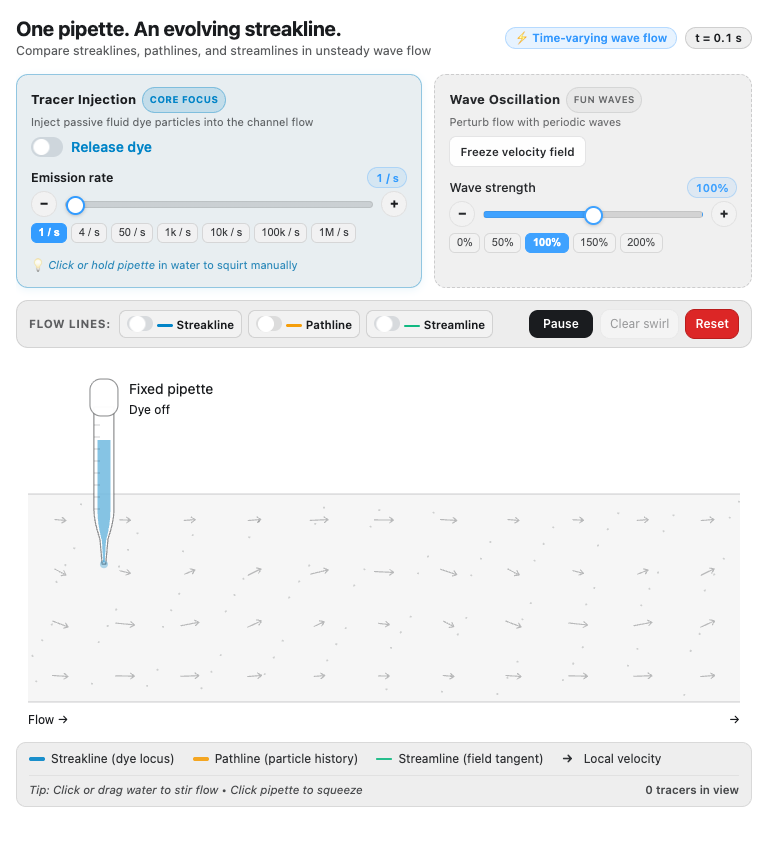
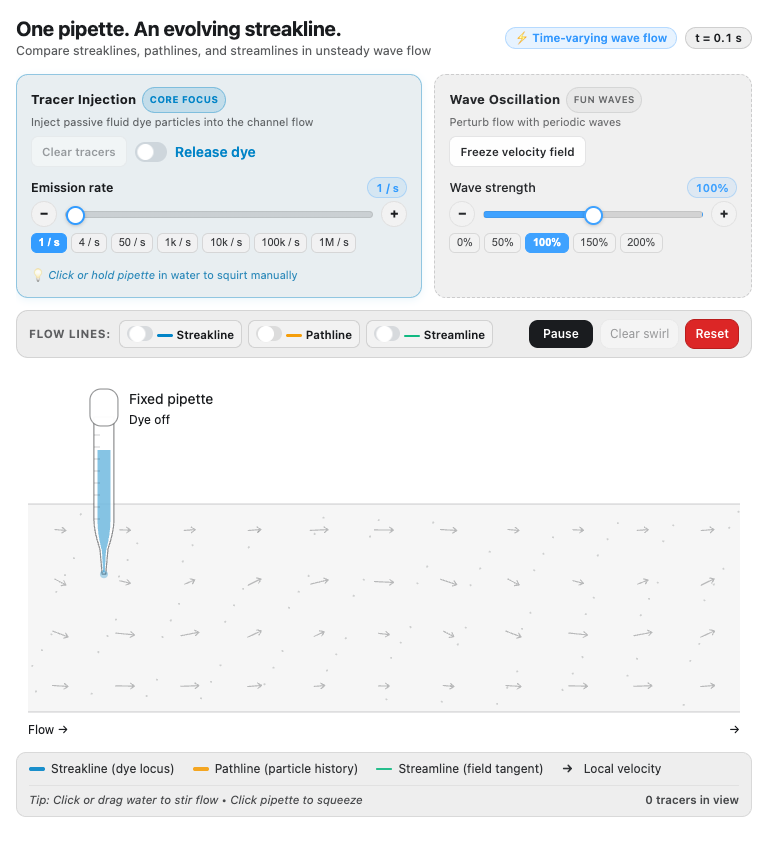
Add Clear tracers button to Tracer Injection card

diff --git a/dist/index.html b/dist/index.html
@@ -1349,10 +1349,13 @@ html&gt;body{padding:0}&lt;/style&gt;
           &lt;/div&gt;
           &lt;span class=&quot;sl-card-desc&quot;&gt;Inject passive fluid dye particles into the channel flow&lt;/span&gt;
         &lt;/div&gt;
-        &lt;label class=&quot;form-check form-switch sl-dye-switch&quot; for=&quot;sl-dye&quot;&gt;
-          &lt;input class=&quot;form-check-input&quot; type=&quot;checkbox&quot; id=&quot;sl-dye&quot;&gt;
-          &lt;span class=&quot;form-check-label sl-dye-label&quot;&gt;Release dye&lt;/span&gt;
-        &lt;/label&gt;
+        &lt;div class=&quot;sl-tracer-actions&quot;&gt;
+          &lt;button type=&quot;button&quot; class=&quot;btn btn-secondary sl-btn-compact&quot; id=&quot;sl-clear-tracers&quot; disabled&gt;Clear tracers&lt;/button&gt;
+          &lt;label class=&quot;form-check form-switch sl-dye-switch&quot; for=&quot;sl-dye&quot;&gt;
+            &lt;input class=&quot;form-check-input&quot; type=&quot;checkbox&quot; id=&quot;sl-dye&quot;&gt;
+            &lt;span class=&quot;form-check-label sl-dye-label&quot;&gt;Release dye&lt;/span&gt;
+          &lt;/label&gt;
+        &lt;/div&gt;
       &lt;/div&gt;
       &lt;label class=&quot;form-label&quot; for=&quot;sl-rate&quot;&gt;
         &lt;div class=&quot;sl-label-row&quot;&gt;
@@ -1678,6 +1681,17 @@ html&gt;body{padding:0}&lt;/style&gt;
     border-radius: 7px;
     white-space: nowrap;
     cursor: pointer;
+  }
+  #streakline-lab .sl-tracer-actions {
+    display: flex;
+    align-items: center;
+    gap: 8px;
+    flex-wrap: wrap;
+  }
+  #streakline-lab #sl-clear-tracers:not(:disabled) {
+    border-color: #0284c7;
+    color: #0284c7;
+    font-weight: 600;
   }
   #streakline-lab .sl-dye-switch {
     margin: 0;
@@ -2149,6 +2163,7 @@ html&gt;body{padding:0}&lt;/style&gt;
   const wave = el(&#x27;sl-wave&#x27;);
   const waveVal = el(&#x27;sl-wave-val&#x27;);
   const clearVortex = el(&#x27;sl-vortex-clear&#x27;);
+  const clearTracers = el(&#x27;sl-clear-tracers&#x27;);
   const vortexLegend = el(&#x27;sl-vortex-legend&#x27;);
   const pipette = el(&#x27;sl-pipette&#x27;);
   let isPipetteHeld = false;
@@ -2402,6 +2417,7 @@ html&gt;body{padding:0}&lt;/style&gt;
     }
     totalTracers = Math.min(1000000, Math.round(totalTracers));
     el(&#x27;sl-count&#x27;).textContent = `${totalTracers.toLocaleString()} tracers in view`;
+    if (clearTracers) clearTracers.disabled = (particles.length === 0);
     if (vortex.active) {
       el(&#x27;sl-vortex&#x27;).style.display = &#x27;&#x27;;
       el(&#x27;sl-vortex&#x27;).setAttribute(&#x27;transform&#x27;, `translate(${n(px(vortex.x))},${n(py(vortex.y))})`);
@@ -2454,6 +2470,7 @@ html&gt;body{padding:0}&lt;/style&gt;
     updateSlider(wave);
     updateSlider(rate);
     clearVortex.disabled = !vortex.active;
+    if (clearTracers) clearTracers.disabled = (particles.length === 0);
     vortexLegend.style.display = vortex.active ? &#x27;inline-flex&#x27; : &#x27;none&#x27;;
   }
   function updateSlider(input) {
@@ -2499,6 +2516,17 @@ html&gt;body{padding:0}&lt;/style&gt;
     save();
     announce(&#x27;Swirl vortex removed.&#x27;);
   });
+  if (clearTracers) {
+    clearTracers.addEventListener(&#x27;click&#x27;, () =&gt; {
+      particles = [];
+      injectAccumulator = 0;
+      run++;
+      syncControls();
+      draw();
+      save();
+      announce(&#x27;Tracers cleared.&#x27;);
+    });
+  }
   let draggingVortex = false;
   function handlePointer(event) {
     if (event.target &amp;&amp; event.target.closest &amp;&amp; event.target.closest(&#x27;#sl-pipette&#x27;)) return false;
@@ -2723,6 +2751,7 @@ html&gt;body{padding:0}&lt;/style&gt;
   layout(); requestAnimationFrame(animate);
 })();
 &lt;/script&gt;
+
 
 
 

diff --git a/outputs/streakline-demo.html b/outputs/streakline-demo.html
@@ -1349,10 +1349,13 @@ html&gt;body{padding:0}&lt;/style&gt;
           &lt;/div&gt;
           &lt;span class=&quot;sl-card-desc&quot;&gt;Inject passive fluid dye particles into the channel flow&lt;/span&gt;
         &lt;/div&gt;
-        &lt;label class=&quot;form-check form-switch sl-dye-switch&quot; for=&quot;sl-dye&quot;&gt;
-          &lt;input class=&quot;form-check-input&quot; type=&quot;checkbox&quot; id=&quot;sl-dye&quot;&gt;
-          &lt;span class=&quot;form-check-label sl-dye-label&quot;&gt;Release dye&lt;/span&gt;
-        &lt;/label&gt;
+        &lt;div class=&quot;sl-tracer-actions&quot;&gt;
+          &lt;button type=&quot;button&quot; class=&quot;btn btn-secondary sl-btn-compact&quot; id=&quot;sl-clear-tracers&quot; disabled&gt;Clear tracers&lt;/button&gt;
+          &lt;label class=&quot;form-check form-switch sl-dye-switch&quot; for=&quot;sl-dye&quot;&gt;
+            &lt;input class=&quot;form-check-input&quot; type=&quot;checkbox&quot; id=&quot;sl-dye&quot;&gt;
+            &lt;span class=&quot;form-check-label sl-dye-label&quot;&gt;Release dye&lt;/span&gt;
+          &lt;/label&gt;
+        &lt;/div&gt;
       &lt;/div&gt;
       &lt;label class=&quot;form-label&quot; for=&quot;sl-rate&quot;&gt;
         &lt;div class=&quot;sl-label-row&quot;&gt;
@@ -1678,6 +1681,17 @@ html&gt;body{padding:0}&lt;/style&gt;
     border-radius: 7px;
     white-space: nowrap;
     cursor: pointer;
+  }
+  #streakline-lab .sl-tracer-actions {
+    display: flex;
+    align-items: center;
+    gap: 8px;
+    flex-wrap: wrap;
+  }
+  #streakline-lab #sl-clear-tracers:not(:disabled) {
+    border-color: #0284c7;
+    color: #0284c7;
+    font-weight: 600;
   }
   #streakline-lab .sl-dye-switch {
     margin: 0;
@@ -2149,6 +2163,7 @@ html&gt;body{padding:0}&lt;/style&gt;
   const wave = el(&#x27;sl-wave&#x27;);
   const waveVal = el(&#x27;sl-wave-val&#x27;);
   const clearVortex = el(&#x27;sl-vortex-clear&#x27;);
+  const clearTracers = el(&#x27;sl-clear-tracers&#x27;);
   const vortexLegend = el(&#x27;sl-vortex-legend&#x27;);
   const pipette = el(&#x27;sl-pipette&#x27;);
   let isPipetteHeld = false;
@@ -2402,6 +2417,7 @@ html&gt;body{padding:0}&lt;/style&gt;
     }
     totalTracers = Math.min(1000000, Math.round(totalTracers));
     el(&#x27;sl-count&#x27;).textContent = `${totalTracers.toLocaleString()} tracers in view`;
+    if (clearTracers) clearTracers.disabled = (particles.length === 0);
     if (vortex.active) {
       el(&#x27;sl-vortex&#x27;).style.display = &#x27;&#x27;;
       el(&#x27;sl-vortex&#x27;).setAttribute(&#x27;transform&#x27;, `translate(${n(px(vortex.x))},${n(py(vortex.y))})`);
@@ -2454,6 +2470,7 @@ html&gt;body{padding:0}&lt;/style&gt;
     updateSlider(wave);
     updateSlider(rate);
     clearVortex.disabled = !vortex.active;
+    if (clearTracers) clearTracers.disabled = (particles.length === 0);
     vortexLegend.style.display = vortex.active ? &#x27;inline-flex&#x27; : &#x27;none&#x27;;
   }
   function updateSlider(input) {
@@ -2499,6 +2516,17 @@ html&gt;body{padding:0}&lt;/style&gt;
     save();
     announce(&#x27;Swirl vortex removed.&#x27;);
   });
+  if (clearTracers) {
+    clearTracers.addEventListener(&#x27;click&#x27;, () =&gt; {
+      particles = [];
+      injectAccumulator = 0;
+      run++;
+      syncControls();
+      draw();
+      save();
+      announce(&#x27;Tracers cleared.&#x27;);
+    });
+  }
   let draggingVortex = false;
   function handlePointer(event) {
     if (event.target &amp;&amp; event.target.closest &amp;&amp; event.target.closest(&#x27;#sl-pipette&#x27;)) return false;
@@ -2723,6 +2751,7 @@ html&gt;body{padding:0}&lt;/style&gt;
   layout(); requestAnimationFrame(animate);
 })();
 &lt;/script&gt;
+
 
 
 

diff --git a/work/streakline-preview.html b/work/streakline-preview.html
@@ -1349,10 +1349,13 @@ html&gt;body{padding:0}&lt;/style&gt;
           &lt;/div&gt;
           &lt;span class=&quot;sl-card-desc&quot;&gt;Inject passive fluid dye particles into the channel flow&lt;/span&gt;
         &lt;/div&gt;
-        &lt;label class=&quot;form-check form-switch sl-dye-switch&quot; for=&quot;sl-dye&quot;&gt;
-          &lt;input class=&quot;form-check-input&quot; type=&quot;checkbox&quot; id=&quot;sl-dye&quot;&gt;
-          &lt;span class=&quot;form-check-label sl-dye-label&quot;&gt;Release dye&lt;/span&gt;
-        &lt;/label&gt;
+        &lt;div class=&quot;sl-tracer-actions&quot;&gt;
+          &lt;button type=&quot;button&quot; class=&quot;btn btn-secondary sl-btn-compact&quot; id=&quot;sl-clear-tracers&quot; disabled&gt;Clear tracers&lt;/button&gt;
+          &lt;label class=&quot;form-check form-switch sl-dye-switch&quot; for=&quot;sl-dye&quot;&gt;
+            &lt;input class=&quot;form-check-input&quot; type=&quot;checkbox&quot; id=&quot;sl-dye&quot;&gt;
+            &lt;span class=&quot;form-check-label sl-dye-label&quot;&gt;Release dye&lt;/span&gt;
+          &lt;/label&gt;
+        &lt;/div&gt;
       &lt;/div&gt;
       &lt;label class=&quot;form-label&quot; for=&quot;sl-rate&quot;&gt;
         &lt;div class=&quot;sl-label-row&quot;&gt;
@@ -1678,6 +1681,17 @@ html&gt;body{padding:0}&lt;/style&gt;
     border-radius: 7px;
     white-space: nowrap;
     cursor: pointer;
+  }
+  #streakline-lab .sl-tracer-actions {
+    display: flex;
+    align-items: center;
+    gap: 8px;
+    flex-wrap: wrap;
+  }
+  #streakline-lab #sl-clear-tracers:not(:disabled) {
+    border-color: #0284c7;
+    color: #0284c7;
+    font-weight: 600;
   }
   #streakline-lab .sl-dye-switch {
     margin: 0;
@@ -2149,6 +2163,7 @@ html&gt;body{padding:0}&lt;/style&gt;
   const wave = el(&#x27;sl-wave&#x27;);
   const waveVal = el(&#x27;sl-wave-val&#x27;);
   const clearVortex = el(&#x27;sl-vortex-clear&#x27;);
+  const clearTracers = el(&#x27;sl-clear-tracers&#x27;);
   const vortexLegend = el(&#x27;sl-vortex-legend&#x27;);
   const pipette = el(&#x27;sl-pipette&#x27;);
   let isPipetteHeld = false;
@@ -2402,6 +2417,7 @@ html&gt;body{padding:0}&lt;/style&gt;
     }
     totalTracers = Math.min(1000000, Math.round(totalTracers));
     el(&#x27;sl-count&#x27;).textContent = `${totalTracers.toLocaleString()} tracers in view`;
+    if (clearTracers) clearTracers.disabled = (particles.length === 0);
     if (vortex.active) {
       el(&#x27;sl-vortex&#x27;).style.display = &#x27;&#x27;;
       el(&#x27;sl-vortex&#x27;).setAttribute(&#x27;transform&#x27;, `translate(${n(px(vortex.x))},${n(py(vortex.y))})`);
@@ -2454,6 +2470,7 @@ html&gt;body{padding:0}&lt;/style&gt;
     updateSlider(wave);
     updateSlider(rate);
     clearVortex.disabled = !vortex.active;
+    if (clearTracers) clearTracers.disabled = (particles.length === 0);
     vortexLegend.style.display = vortex.active ? &#x27;inline-flex&#x27; : &#x27;none&#x27;;
   }
   function updateSlider(input) {
@@ -2499,6 +2516,17 @@ html&gt;body{padding:0}&lt;/style&gt;
     save();
     announce(&#x27;Swirl vortex removed.&#x27;);
   });
+  if (clearTracers) {
+    clearTracers.addEventListener(&#x27;click&#x27;, () =&gt; {
+      particles = [];
+      injectAccumulator = 0;
+      run++;
+      syncControls();
+      draw();
+      save();
+      announce(&#x27;Tracers cleared.&#x27;);
+    });
+  }
   let draggingVortex = false;
   function handlePointer(event) {
     if (event.target &amp;&amp; event.target.closest &amp;&amp; event.target.closest(&#x27;#sl-pipette&#x27;)) return false;
@@ -2723,6 +2751,7 @@ html&gt;body{padding:0}&lt;/style&gt;
   layout(); requestAnimationFrame(animate);
 })();
 &lt;/script&gt;
+
 
 
 
